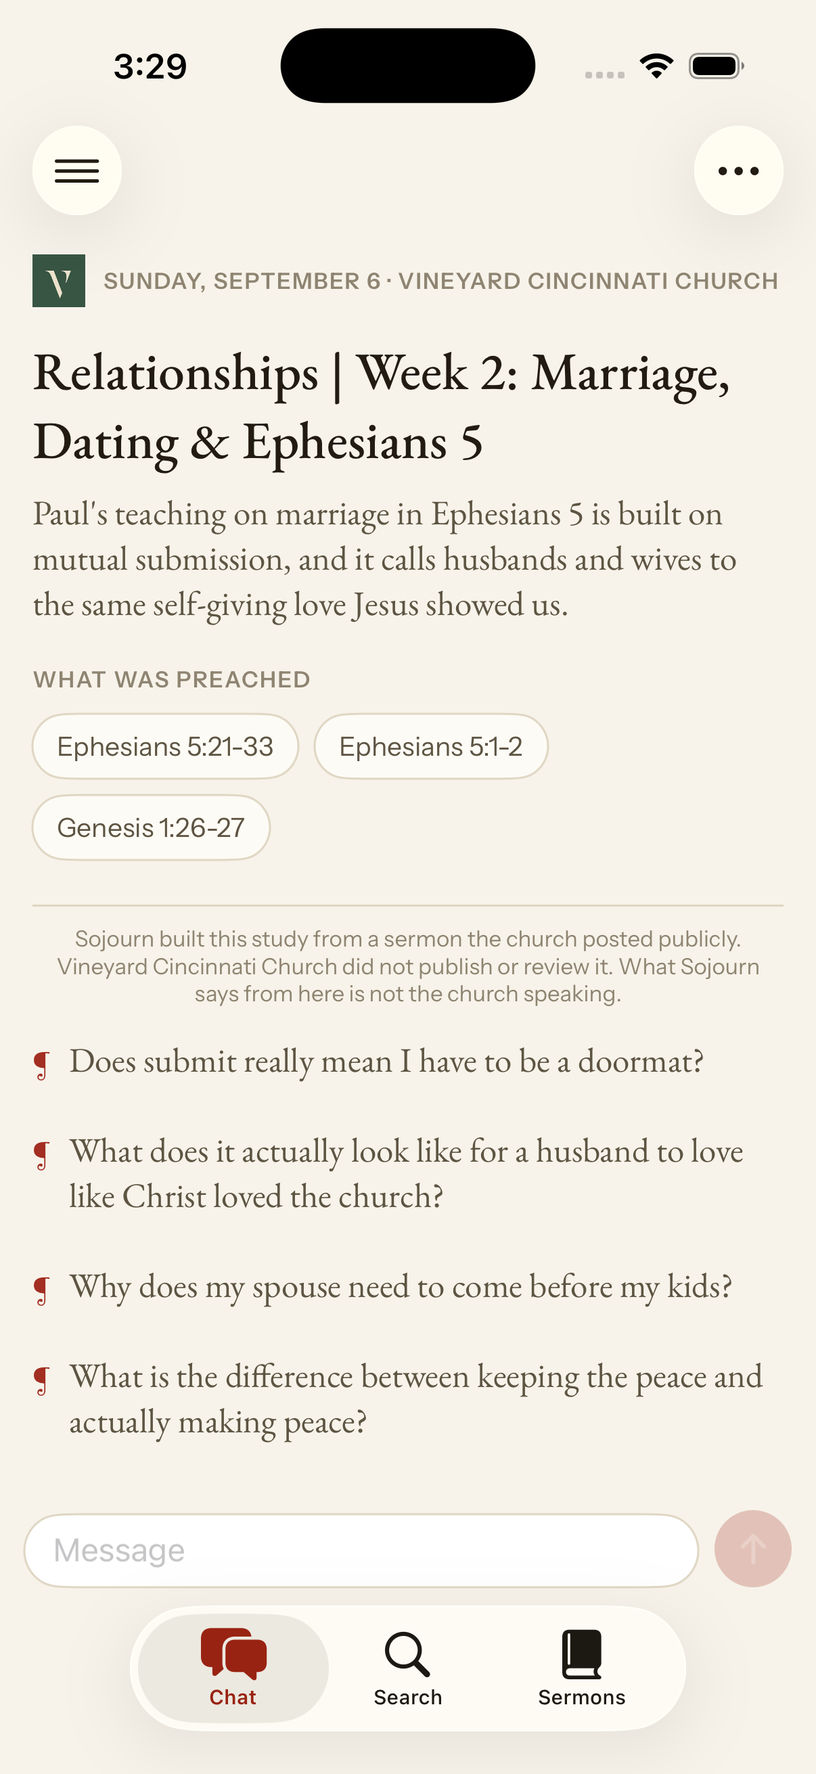
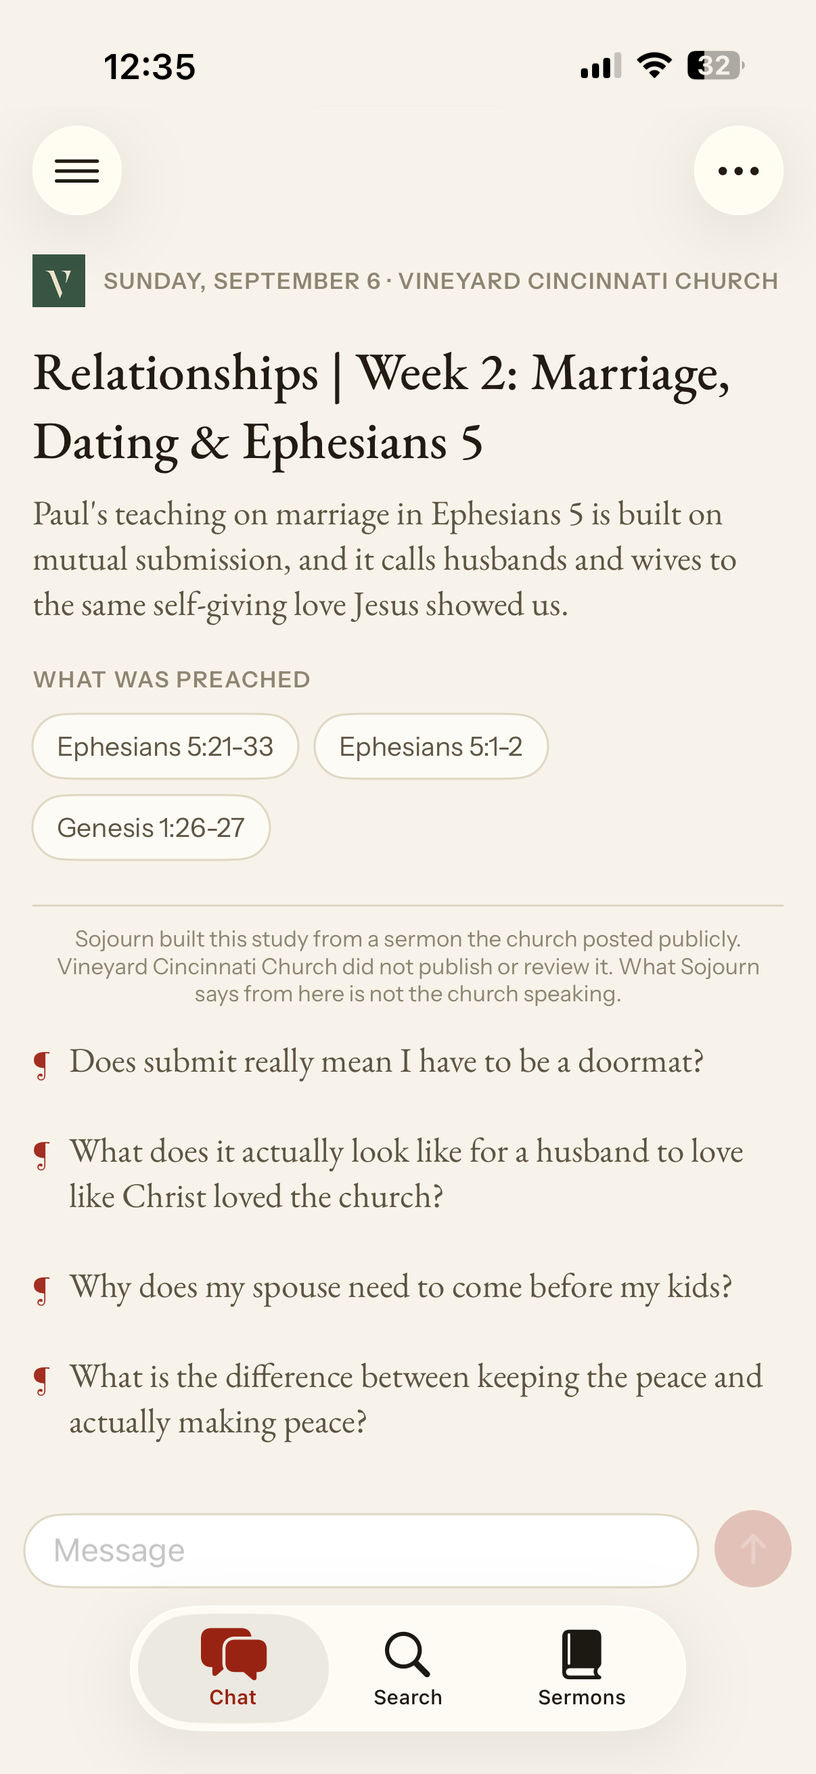
Give the sermon hero one clock across all three shots
The study screenshot came from a different session than the two feed
shots: 3:29 against 12:35, a dynamic island the others do not have, and
a full battery against 32%. Cycling the hero jumped all four of those at
once, which read as the fade being broken.

Its status bar is rebuilt from the feed shot now. The bar is wiped down
to the app's own paper and the good glyphs composited back on through a
per-pixel alpha, so it keeps the real system font and antialiasing with
no patch seam. The island is gone, and the wipe runs four rows past its
visible edge where the antialiasing was still leaving a streak.

The first tab goes back to fading the two captures whole, as supplied.
They differ by a few levels outside the banner and that turns out to be
far too small to see, so the cropped overlay was not worth its
complexity. CLAUDE.md records both findings.

diff --git a/sermons/index.html b/sermons/index.html
@@ -99,11 +99,9 @@
   .sm-screen.is-on{opacity:1;}
   .sm-screen img{position:absolute;top:0;left:0;width:100%;height:auto;}
   .sm-screen.from-bottom img{top:auto;bottom:0;}
-  /* The Sermons screen fades in just the notification banner, cropped from the same
-     capture, so nothing else in the shot shifts while it lands. The banner sits 40px
-     down a 248px strip, and translateY resolves against the strip's own height, so the
-     offset tracks the image at any width. */
-  .sm-notify{opacity:0;transform:translateY(calc(100% * 40 / 248));}
+  /* The Sermons screen holds the same capture twice and fades the second one in, so
+     the notification looks like it lands while you are watching. */
+  .sm-notify{opacity:0;}
   .sm-notify.run{animation:sm-notify-in .55s ease 1.1s forwards;}
   @keyframes sm-notify-in{from{opacity:0;}to{opacity:1;}}
 
@@ -182,7 +180,7 @@
           </picture>
           <picture>
             <source srcset="/assets/shot-sermons-notify.webp" type="image/webp">
-            <img class="sm-notify run" src="/assets/shot-sermons-notify.jpg" width="816" height="248" alt="" aria-hidden="true" decoding="async">
+            <img class="sm-notify run" src="/assets/shot-sermons-notify.jpg" width="816" height="1766" alt="" aria-hidden="true" decoding="async">
           </picture>
         </div>
         <picture class="sm-screen" id="screen-detail" role="tabpanel" aria-labelledby="tab-detail" aria-hidden="true">

diff --git a/CLAUDE.md b/CLAUDE.md
@@ -219,12 +219,23 @@ all text. Quality 80 holds up on serif body copy. `jpegtran -copy none -optimize
 is a free lossless pass that also strips metadata, so run it and keep the result if smaller.
 
 **Crossfading two shots.** When one screenshot fades into another to animate something (the
-notification landing on `/sermons/`), the two files must be identical everywhere except the
-part that changes, or the whole frame shimmers. Two captures of the same screen are not
-identical: a PNG and a JPEG of the same moment differ by several levels on every pixel.
-Crop the changing region out of one capture and lay that strip over the other with CSS
-rather than crossfading two full frames. It removes the shimmer completely and the strip is
-a fraction of the bytes (23KB instead of a second 161KB frame).
+notification landing on `/sermons/`), the two captures have to come from the same session,
+seconds apart, with only the thing being animated different between them. Even then they
+are not pixel identical: a PNG and a JPEG of the same moment differ by a few levels
+everywhere, which is small enough to ignore. If a pair ever does drift visibly, crop the
+changing region out of one capture and lay that strip over the other with CSS instead of
+fading two full frames.
+
+**One clock across a set.** Every screenshot in the same hero or carousel has to agree on
+its status bar, because they fade into each other: same time, same battery, same signal,
+same presence or absence of the dynamic island. Shots taken on different devices or hours
+apart will visibly jump. When a reshoot is not possible, rebuild the odd one's status bar
+from a good one: wipe the bar down to the app's own background colour, then composite the
+good shot's glyphs back on by deriving a per-pixel alpha from how far each source pixel
+falls below its own background (`alpha = (bg - pixel) / bg`, then `out = bg_target *
+(1 - alpha)`). That keeps the real system font and antialiasing and leaves no patch seam.
+Watch the soft edges: the island's antialiasing trails four rows past where it looks like
+it ends, and a leftover delta of 4 is invisible alone but reads as a streak on flat paper.
 
 ## Rules
 
